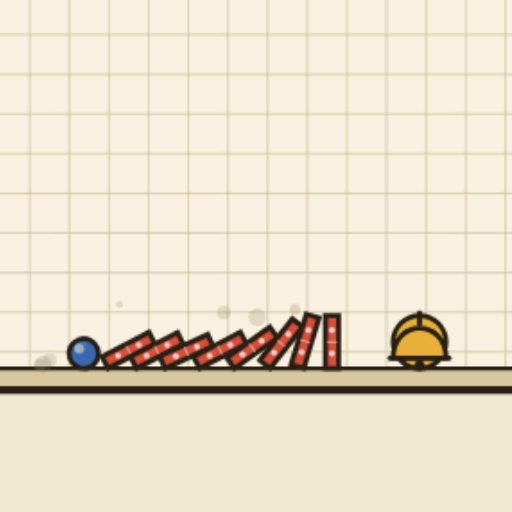
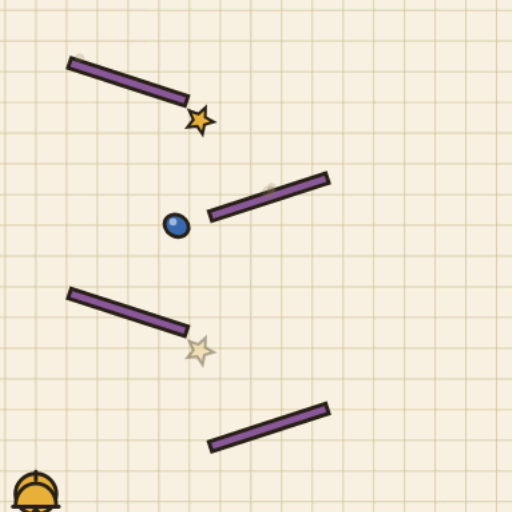
Doohickey: the arcade tile is The Zigzag, not a strip of floor
The tile framed the domino row, 200 px of a 432 board, and sat as a band on
the shelf. It now shoots the new Zigzag level with the marble halfway down its
four planks and the bell at the foot, the whole height of the board in the
square. The tool's guard counted domino red; it counts plank purple now and
still refuses a tile with no bell in it. Portal thumb stamp bumped.

Claude-Session: https://claude.ai/code/session_01CohA1CK6e5eCWUdrKWPpuM

diff --git a/portal/index.html b/portal/index.html
@@ -1041,7 +1041,7 @@ var FEATURED = [
   {nm:"Asterism", ds:"The real night sky over your head, right now. Join the stars into a shape of your own, name it, and read the myth the sky writes for it.", cat:"creative", url:"/satellites/asterism/?v=20260906b", ic:"✨", thumb:"/portal-assets/thumbs/asterism.png?v=20260906b", beta:true, fresh:true},
   {nm:"Swell", ds:"Hold the screen and an orchestra swells out of silence. Let go and it resolves, always. You cannot play a wrong note. You can only conduct.", cat:"creative", url:"/satellites/swell/?v=20260906b", ic:"🎻", thumb:"/portal-assets/thumbs/swell.png?v=20260906b", beta:true, fresh:true},
   {nm:"Wardian", ds:"A sealed jar that lives on your time. Moss, ferns and small bugs grow while you are away, night falls when it falls outside, and nothing in the jar can ever die.", cat:"creative", url:"/satellites/wardian/?v=20260906b", ic:"🫙", thumb:"/portal-assets/thumbs/wardian.png?v=20260906b", beta:true, fresh:true},
-  {nm:"Doohickey", ds:"Drag ramps, dominoes, fans and balloons onto the page, press GO, and watch a marble set off beautiful chaos until the bell rings. Build something needlessly complicated. Watch it almost work.", cat:"puzzle", url:"/satellites/doohickey/?v=20260906b", ic:"⚙", thumb:"/portal-assets/thumbs/doohickey.png?v=20260906b", beta:true, fresh:true},
+  {nm:"Doohickey", ds:"Drag ramps, dominoes, fans and balloons onto the page, press GO, and watch a marble set off beautiful chaos until the bell rings. Build something needlessly complicated. Watch it almost work.", cat:"puzzle", url:"/satellites/doohickey/?v=20260906b", ic:"⚙", thumb:"/portal-assets/thumbs/doohickey.png?v=20260906d", beta:true, fresh:true},
   {nm:"Airworthy", ds:"Fold a paper airplane crease by crease, see the air move over its wings in a wind tunnel, throw it across the gym, then bend the elevators a hair and throw it again. Every crease counts.", cat:"creative", url:"/satellites/airworthy/?v=20260906b", ic:"✈", thumb:"/portal-assets/thumbs/airworthy.png?v=20260906b", beta:true, fresh:true},
   {nm:"Windup", ds:"Punch holes in a paper strip, turn the crank yourself, and hear your song plink out of a little brass music box. Wrap it up and send it to someone.", cat:"creative", url:"/satellites/windup/?v=20260906b", ic:"🎁", thumb:"/portal-assets/thumbs/windup.png?v=20260906b", beta:true, fresh:true},
   {nm:"Inkswing", ds:"Grab a brass pendulum and throw it. A pen underneath draws the swing as it slowly dies, and the lengths you set hum the chord your drawing is made of. Keep the ones you love.", cat:"creative", url:"/satellites/inkswing/?v=20260906b", ic:"🖋", thumb:"/portal-assets/thumbs/inkswing.png?v=20260906b", beta:true, fresh:true},
